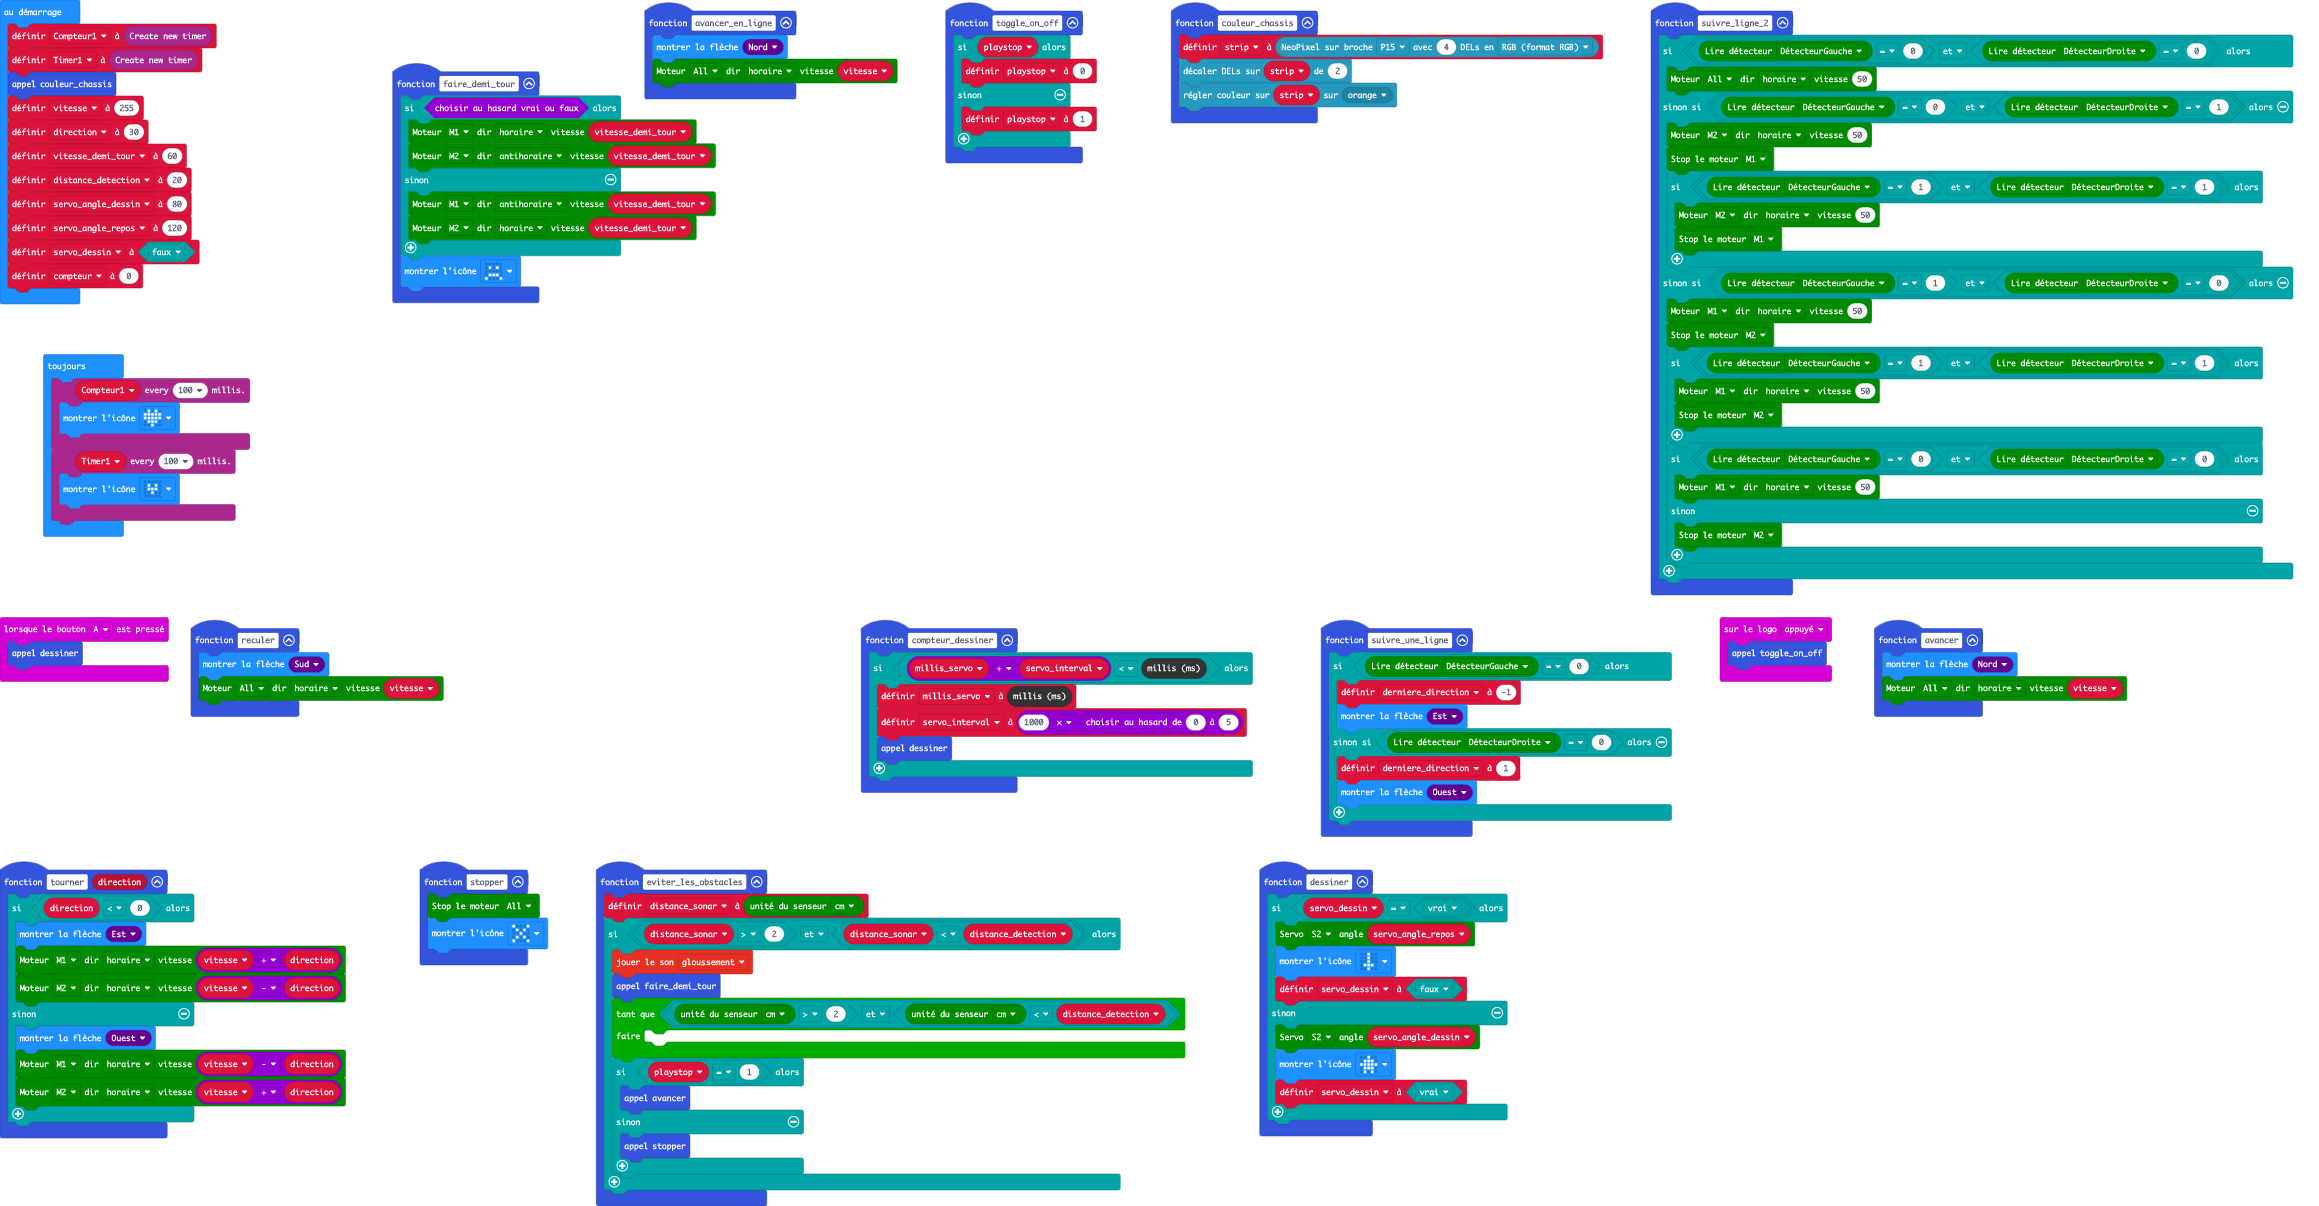
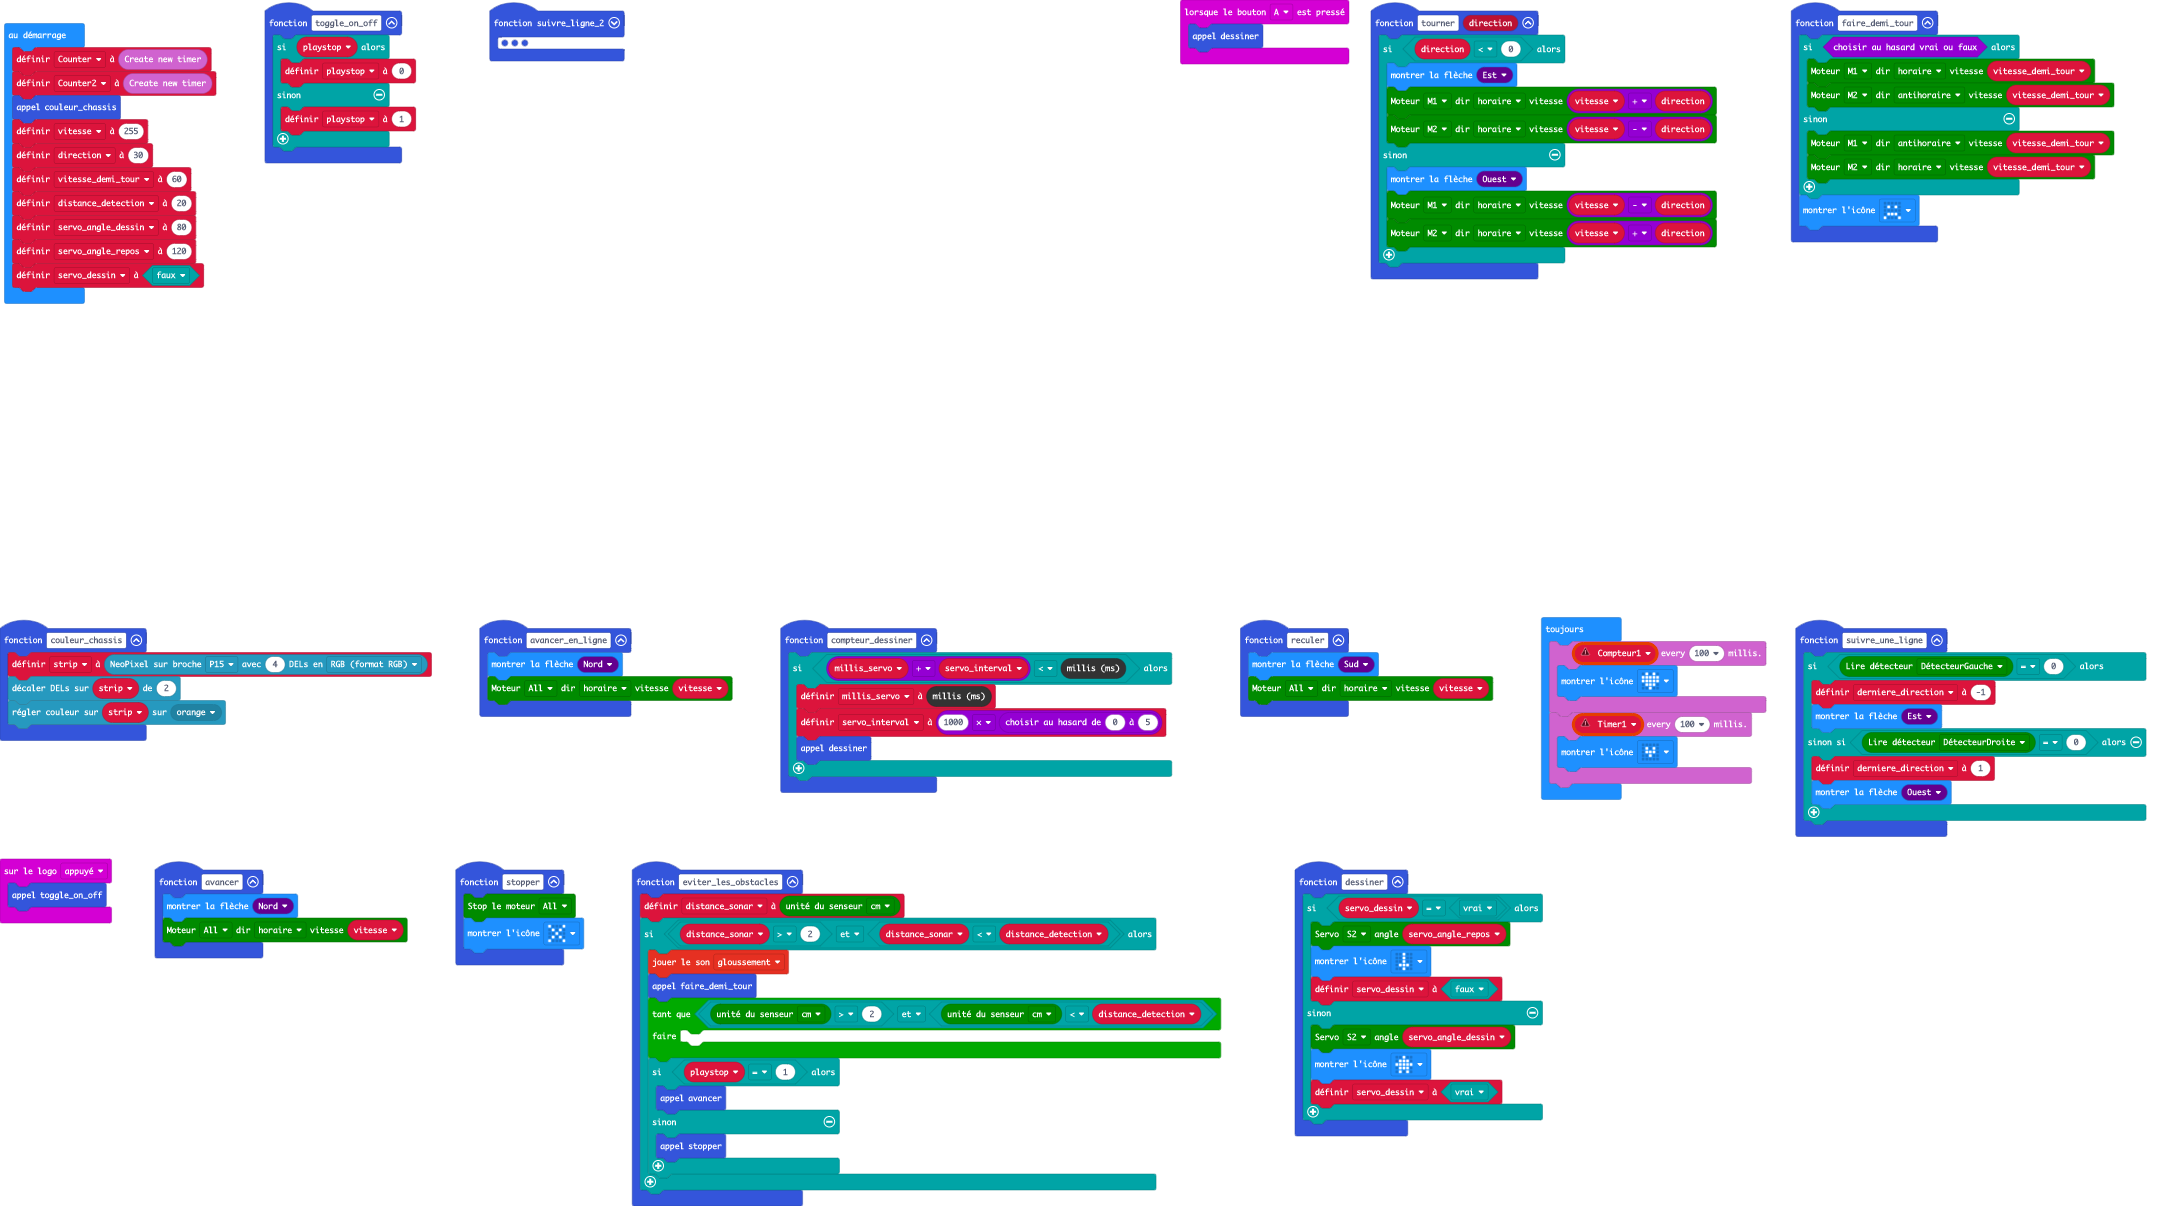
Mise à jour pxt.json, main.blocks, main.ts, counter.ts

diff --git a/counter.ts b/counter.ts
@@ -1,4 +1,4 @@
-//% color="#AA278D"
+//% color="#D063CF" icon="\uf017"
 //% groups="['Create Timers', 'Use them']"
 namespace Timers {
     //%
@@ -7,17 +7,10 @@ namespace Timers {
          constructor() {
             this.millis = control.millis();
          }
-
-    //% block="$this(timer) every $interval sec."
-    public every_x_secs(interval: number,handler: () => void) {
-        if(this.millis + interval*1000 < control.millis()){
-            this.restart_timer();
-            handler();
-        }
-    }    
+  
     //% block="$this(timer) every $interval sec."
     //% handlerStatement
-    public every_x_secs_inline(interval: number, handler: () => void) {
+    public every_x_secs(interval: number, handler: () => void) {
         if(this.millis + interval*1000 < control.millis()){
             this.restart_timer();
             handler();
@@ -37,19 +30,10 @@ namespace Timers {
         this.millis = control.millis();
     }
 
-    //% block="$this(timer) every $interval sec."
-    //% handlerStatement
-    public onEventAsStatement(interval: number, handler: () => void) {
-        if(this.millis + interval*1000 < control.millis()){
-             this.millis = control.millis();
-             handler();
-        }
-    }
-
     }
     //% group="Create Timers"
     //% block="Create new timer"
-    //% blockSetVariable=Timer1
+    //% blockSetVariable=Counter
     //% weight=100
     export function createCounters(): timer {
         return new timer();

diff --git a/main.ts b/main.ts
@@ -131,8 +131,8 @@ let servo_angle_dessin = 0
 let distance_detection = 0
 let vitesse_demi_tour = 0
 let vitesse = 0
-let Compteur1 = Timers.createCounters()
-let Timer1 = Timers.createCounters()
+let Counter = Timers.createCounters()
+let Counter2 = Timers.createCounters()
 couleur_chassis()
 vitesse = 255
 let direction = 30
@@ -141,8 +141,9 @@ distance_detection = 20
 servo_angle_dessin = 80
 servo_angle_repos = 120
 servo_dessin = false
-let compteur = 0
 basic.forever(function () {
+    let Timer1: Timers.timer = null
+    let Compteur1: Timers.timer = null
     Compteur1.every_x_millis(100, function () {
         basic.showIcon(IconNames.Heart)
     })
